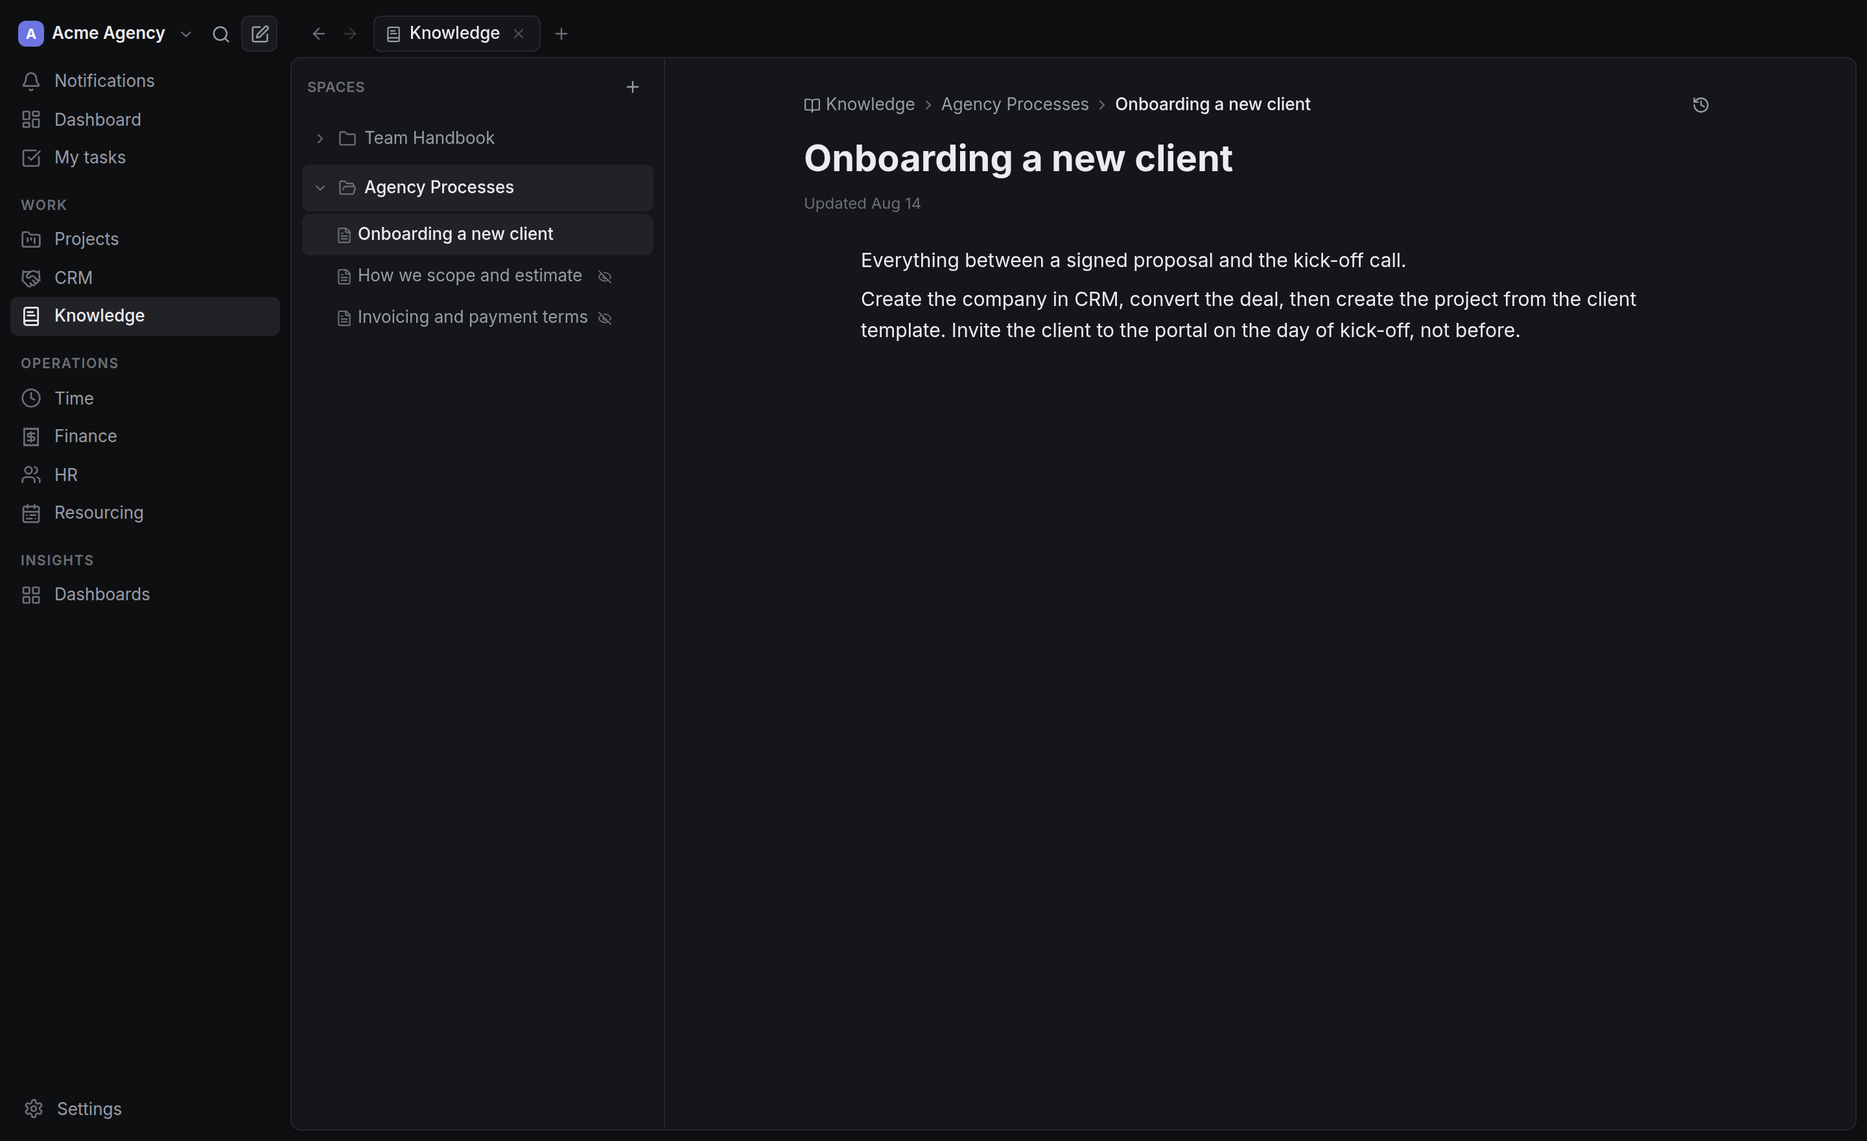
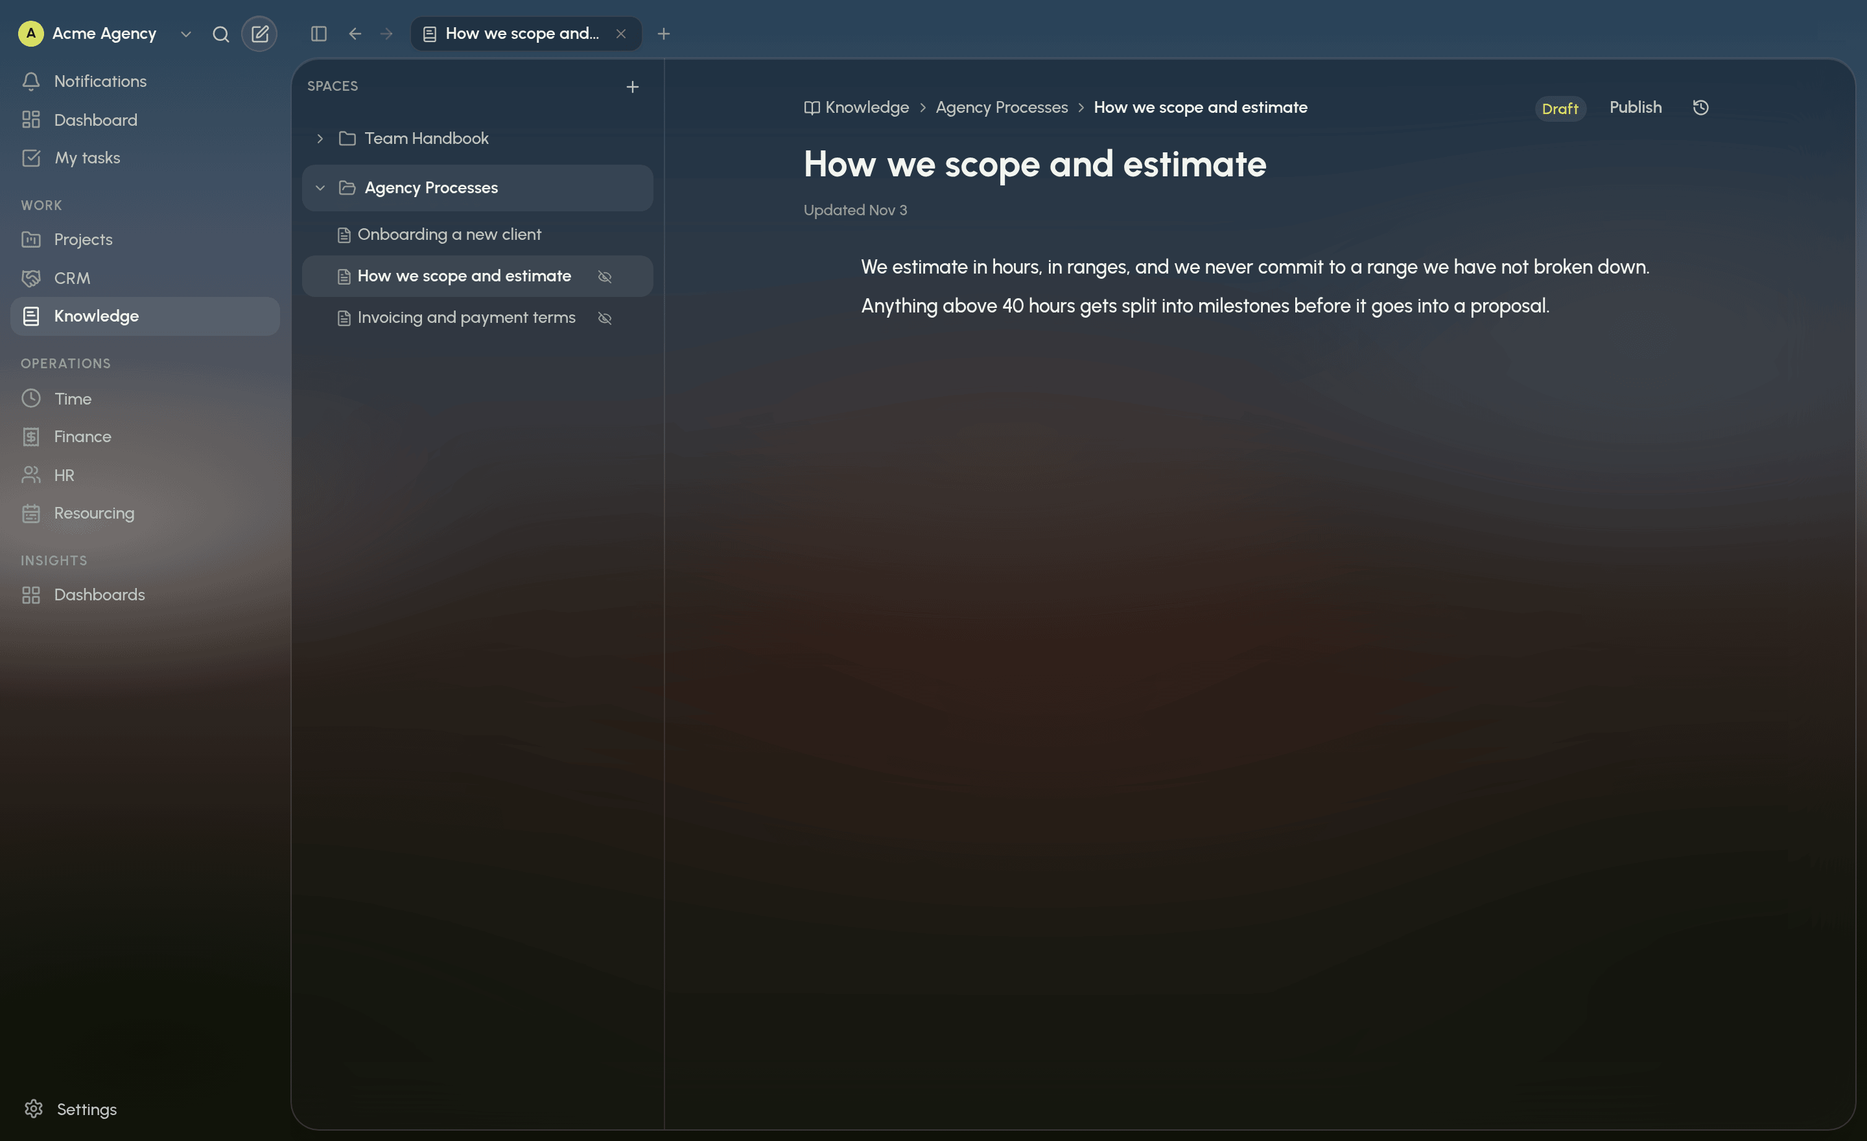
docs: catch the README, changelog and docs up with v1.41 and the Glass look
The screenshots showed the Classic look and a Cycles tab that is now Plan,
the README still sold agents on Claude only and one SMTP setting, and the
CHANGELOG stopped at v1.36.1 while five releases shipped after it.

- docs/images: every screenshot retaken from the demo seed on Glass Dark,
  the look a new installation starts on, plus project-plan.png
- README: the Plan tab, Codex and OpenAI-compatible gateways for agents,
  several mail senders, what MCP can now do, desktop sign-ins through the
  browser and swipe navigation, Glass and Classic; pin example at 1.41.0
- CHANGELOG: v1.36.2 to v1.41.0
- docs/features.md: the missing v1.36.2 to v1.40.0 entries
- docs/desktop.md: startExternalFlow, swipe navigation, the macOS menu

diff --git a/CHANGELOG.md b/CHANGELOG.md
@@ -3,6 +3,120 @@
 Release notes for each version live in [`docs/releases`](docs/releases) and are
 published to [GitHub Releases](https://github.com/romirom11/ordi/releases).
 
+## v1.41.0
+
+- **Bitbucket Cloud**: Settings → Integrations → Bitbucket connects a
+  workspace with an Atlassian API token (plus the account email) or a
+  workspace, project or repository access token, checked by listing the
+  workspace's repositories before anything is stored. Binding a repository
+  to a project registers a signed webhook on it – nothing to copy by hand –
+  and **Sync** refreshes the repository list and the bound webhooks.
+  Branches, commits and pull requests that mention a task key link to the
+  task (the key is also read from the pull request's source branch), a pull
+  request's state drives the automation rules, and AI agents clone, push
+  and open the pull request on Bitbucket too. Bitbucket Server / Data
+  Center is not covered.
+- **Desktop sign-ins open in the browser**: installing the GitHub App,
+  GitHub OAuth, Slack and MCP connector authorization took over the app
+  window and stranded it on the web build. They now go to the system
+  browser, the app says "Continue in your browser" and refetches when it
+  regains focus. MCP connector sign-in completes from the desktop app for
+  the first time (its callback no longer needs a session cookie; a consent
+  started before the upgrade has to be started again).
+- **Two-finger swipe** goes back and forward in the desktop app on macOS
+  (with the native slide) and Linux.
+- **New installations start on Glass Dark**; a stored theme or style wins.
+  The sidebar and side panels slide instead of popping in; the GitHub
+  button reads **Choose repositories** once the app is installed; intake
+  settings show only what applies.
+- **A page stuck on "Saving…"**: a save refused after realtime had already
+  brought someone else's version waited forever and **Keep my version** did
+  nothing. The conflict now shows at once and Keep my version saves.
+
+No migrations.
+
+## v1.40.0
+
+- **Plan: milestones and cycles on one tab** (the Cycles tab is renamed):
+  milestones with progress and target dates, **Pull open tasks into the
+  cycle** for a milestone's unfinished work, the current cycle with a
+  breakdown by milestone, upcoming cycles below. Cycles are **opt-in per
+  project**; projects that already have them keep them. Tasks gain a
+  **Cycle** field, the list filters and groups by cycle, and the bulk bar
+  sets a milestone or cycle on many tasks at once.
+- **Project page**: settings open in a side panel from the gear, the
+  overview leads with the description and drops empty blocks, the Intake
+  tab appears only when intake is on or something waits in it, and the
+  projects list flags *At risk* and *Off track* projects.
+- **Several mail senders**: Settings → Email (moved out of Integrations)
+  lists senders, each with its From, optional Reply-To and SMTP login, one
+  for system mail and one default for invoices and quotes. The invoice Send
+  dialog has a **From** picker and reminders follow up from the address the
+  invoice went out from. The old SMTP setting becomes the sender "Default";
+  `SMTP_URL` shows as a read-only sender. Migration
+  `0042_email_delivery_sender`.
+- **Integrations as a list** – GitHub, Slack, webhooks with their state –
+  each one's setup in a side panel.
+- **Glass polish**: Urbanist Cyrillic, so mixed Ukrainian and English reads
+  as one font; task view controls float bottom-right; one fill for every
+  selected thing; settings sections in cards.
+- **Desktop fixes**: the invoice PDF and CSV exports download with the
+  app's own sign-in instead of opening "Not authenticated".
+- **MCP**: `get_project_schema` lists milestones and whether the project
+  uses cycles; task tools take `milestone`; new `create_milestone`,
+  `update_milestone`, `create_cycle`, `complete_cycle`; `send_invoice` uses
+  the invoice sender.
+
+## v1.39.0
+
+- **Glass**: a second look for the whole app (Workspace menu → **Style**),
+  in light and dark – frosted panes over a soft landscape, warm graphite
+  neutrals, a lime accent, pill-shaped controls and the Urbanist typeface.
+  Classic stays available; the choice is stored per browser.
+- **Credit notes count toward every balance** – the public invoice page,
+  the PDF ("Credited" row), the invoice page and company receivables.
+- **Month-end schedules stay in their month**: a schedule due on the 31st
+  lands on the last day of a shorter month instead of rolling over.
+- **Security**: API tokens can no longer list, create or revoke tokens
+  (token management, 2FA setup and desktop/OAuth approvals need a signed-in
+  session); turning 2FA off needs a code; read-only tokens are refused on
+  every mutating request; cost rates need the "read costs" permission;
+  dangerous OAuth redirect URI schemes are refused; MCP `upload_attachment`
+  fetches public URLs only, with a size cap and a 20 s timeout.
+- Keyboard and overlay behaviour, draft recovery in editors, responsive
+  layouts, realtime updates of task and KB edits in open tabs, and
+  workspace actions in the macOS menu bar.
+
+No migrations.
+
+## v1.38.0
+
+- **MCP files subtasks and plans cycles**: `create_task`, `update_task` and
+  `upsert_task` take `parentId` and `cycle` (id or name);
+  `get_project_schema` lists cycles; `list_tasks` filters by both.
+- **Status from the row on My tasks**: the circle opens the same status
+  picker as the project list.
+- A task's parent and cycle must belong to its own project, and a task can
+  no longer become its own ancestor; the depth limit counts the subtasks
+  that move with it.
+
+No migrations.
+
+## v1.37.0
+
+- **Codex runtime for agents**: an agent runs on **Claude Code** or
+  **Codex**, chosen per agent. A Codex credential is an OpenAI API key –
+  optionally with a **Base URL** for any OpenAI-compatible gateway
+  (LiteLLM, OpenRouter, Ollama, Azure OpenAI, a corporate proxy) – or a
+  ChatGPT subscription (`~/.codex/auth.json`). `OPENAI_API_KEY` joins
+  `ANTHROPIC_API_KEY` as an env fallback. Migration `0041_codex_base_url`.
+
+## v1.36.2
+
+- **Images in a task from MCP**: `upload_attachment` stores a file from
+  base64 or a URL and returns a `src` to interleave as `![alt](src)` in a
+  task's text, or attaches it to a record's Files.
+
 ## v1.36.1
 
 - **No more three rows saying 187.00**: an untaxed, unpaid invoice printed

diff --git a/README.md b/README.md
@@ -76,10 +76,12 @@ delivery and finance system that follows the sale.
 
 ### Projects and tasks
 Deliberately modelled on Linear: keyboard-first, fast, opinionated. Board, list,
-calendar, timeline and spreadsheet views; cycles with burn-up and a burndown,
-milestones, project updates with health; sub-tasks, dependencies, labels, custom
-fields (workspace-wide or per project); saved views, filters and display options;
-project templates; files with in-app previews on every task.
+calendar, timeline and spreadsheet views; a **Plan** tab with milestones (progress,
+target dates, "pull open tasks into the cycle") and opt-in cycles with burn-up and a
+burndown; project updates with health; sub-tasks, dependencies, labels, custom
+fields (workspace-wide or per project); saved views, filters, grouping and bulk
+edits by milestone or cycle; project templates; files with in-app previews on every
+task.
 
 </td><td width="50%">
 
@@ -104,7 +106,7 @@ rate. A won deal turns into a project without retyping anything.
 
 ### Finance
 Quotes and invoices with tax, discounts, branded localized PDFs and public payment
-pages. Payments, credit notes, recurring invoices and expenses; receivables aging
+pages, sent from the mail sender you pick. Payments, credit notes, recurring invoices and expenses; receivables aging
 and overdue reminders; invoice straight from unbilled time; project profitability
 out of the box. Underneath sits a **double-entry ledger** – every invoice, payment
 and expense posts balanced entries, so the books actually balance.
@@ -151,18 +153,29 @@ and expense posts balanced entries, so the books actually balance.
 - **Permissions that hold** – enforced on every request, the UI only hides things;
   audit diffs redact sensitive fields, writes use optimistic locking.
 - **Built-in MCP server** – point Claude or Cursor at your workspace over OAuth with
-  PKCE; the agent gets exactly the permissions of its API token, nothing more.
+  PKCE; the agent gets exactly the permissions of its API token, nothing more. It can
+  file subtasks, plan milestones and cycles, and put screenshots into a task.
 - **AI agent employees** – add an agent as a team member, assign it a task like you
   would a person, and it works through the project's repository and opens a pull
-  request for a human to review. Runs on your own Claude subscription or API key,
-  with MCP connectors granted per agent.
+  request for a human to review. Runs on **Claude Code** or **Codex**, per agent, with
+  your own Claude subscription or API key, an OpenAI key (or any OpenAI-compatible
+  gateway – LiteLLM, OpenRouter, Ollama, Azure) or a ChatGPT plan; MCP connectors
+  are granted per agent.
 - **Desktop app** – macOS, Windows and Linux, with native notifications, a global
-  quick-add shortcut, signed auto-updates, and sign-in through your browser
-  instead of retyping credentials. Downloadable from inside the web app.
+  quick-add shortcut, signed auto-updates, two-finger swipe back and forward, and
+  sign-in through your browser instead of retyping credentials – connecting GitHub,
+  Slack or an MCP connector goes through the browser too. Downloadable from inside
+  the web app.
+- **Mail from the right address** – several senders, each with its own From,
+  Reply-To and SMTP login: one for invites and notifications, one for invoices and
+  quotes, and a From picker when you send.
 - **Setup wizard, invites and password reset** – the first run creates the
   workspace, owner account, currency and modules on one screen; members arrive by
   invite.
-- **English and Ukrainian**, dark and light.
+- **Two looks** – **Glass**, frosted panes over a soft backdrop with a lime accent
+  (new installations start on Glass Dark), or **Classic**, solid and quiet; each in
+  dark and light.
+- **English and Ukrainian** throughout, including the invoice PDFs.
 
 ## Quick start
 
@@ -179,7 +192,7 @@ docker compose up
 Open <http://localhost:8080> and the setup wizard will create your workspace and
 owner account.
 
-`docker compose pull` moves you to the newest release; `ORDI_VERSION=1.36.1`
+`docker compose pull` moves you to the newest release; `ORDI_VERSION=1.41.0`
 in a `.env` next to the compose file pins one (and is how you roll back). The
 image is `linux/amd64`.
 

diff --git a/docs/features.md b/docs/features.md
@@ -33,6 +33,58 @@
   пушать і відкривають PR ([PR #130](https://github.com/romirom11/ordi/pull/130)).
 - Сторінка KB / опис задачі більше не зависає на «Saving…», коли Save
   відхилено після того, як realtime уже приніс чужу версію.
+- Десктоп: вхід у GitHub App, GitHub OAuth, Slack і MCP-конектори
+  відкривається в системному браузері (`startExternalFlow`), а не у вікні
+  застосунку; MCP-конектор нарешті авторизується з десктопу. Свайп двома
+  пальцями назад/вперед на macOS і Linux.
+- Нові інсталяції стартують на Glass Dark; сайдбар і бокові панелі
+  виїжджають, а не зʼявляються стрибком; налаштування Intake показують лише
+  те, що стосується.
+
+### v1.40.0
+
+- Вкладка «План» замість «Циклів»: етапи (milestones) з прогресом,
+  дедлайнами і «Затягнути відкриті задачі в цикл», поточний цикл з
+  розбивкою по етапах. Цикли вмикаються на проєкті окремо; у задачі є поле
+  «Цикл», список фільтрує і групує за ним, bulk-панель ставить етап чи цикл.
+- Сторінка проєкту: налаштування в боковій панелі, огляд починається з
+  опису без порожніх блоків, вкладка Intake лише коли intake увімкнено,
+  список проєктів позначає *At risk* / *Off track*.
+- Кілька відправників пошти (Settings → Email): свій From, Reply-To і
+  SMTP-логін; системний і для рахунків; вибір From при відправці рахунку
+  (міграція `0042_email_delivery_sender`).
+- Інтеграції списком, налаштування кожної — у боковій панелі.
+- Glass: Urbanist Cyrillic, плаваючі контролі вигляду задач, одна заливка
+  для вибраного.
+- MCP: `create_milestone`, `update_milestone`, `create_cycle`,
+  `complete_cycle`; `milestone` у задачних тулах.
+
+### v1.39.0
+
+- Другий стиль інтерфейсу — Glass (меню воркспейсу → Style), у світлій і
+  темній темах; Classic лишається.
+- Кредит-ноти враховуються в балансі рахунку всюди; місячні розклади на 31-ше
+  лишаються у своєму місяці.
+- Безпека: API-токени не керують токенами, read-only токени не пишуть,
+  вимкнення 2FA лише з кодом, cost rates лише з правом на витрати, MCP
+  `upload_attachment` тягне лише публічні URL.
+
+### v1.38.0
+
+- MCP створює підзадачі й кладе задачі в цикли (`parentId`, `cycle`);
+  `get_project_schema` віддає цикли.
+- Статус задачі змінюється прямо з рядка в «Моїх задачах».
+
+### v1.37.0
+
+- Рантайм Codex для AI-агентів поруч із Claude Code: OpenAI API-ключ (з
+  довільним OpenAI-сумісним Base URL) або підписка ChatGPT (міграція
+  `0041_codex_base_url`).
+
+### v1.36.2
+
+- MCP `upload_attachment`: картинки всередині тексту задачі або файл у
+  розділі Files запису.
 
 ### v1.36.1
 

diff --git a/docs/desktop.md b/docs/desktop.md
@@ -66,9 +66,12 @@ Windows/Linux додайте `http://tauri.localhost` в `CORS_ORIGINS` інст
 | Зовнішні посилання | `lib/desktop.ts` → `installExternalLinkHandler()` | делегований клік на `document` → `plugin:opener\|open_url` у системному браузері; вебв'ю ігнорує `target="_blank"`, тому без цього обробника посилання просто мертві |
 | Автозапуск | плагін `autostart` (Rust) | ініціалізований; вмикання – стандартний viклик плагіна |
 | Автооновлення | плагін `updater` + CI | підписані артефакти з релізів; endpoint і pubkey – у `tauri.conf.json → plugins.updater` |
+| Вхід у сторонні сервіси (GitHub App, GitHub OAuth, Slack, MCP-конектори) | `lib/desktop.ts` → `startExternalFlow()` | у вебі вкладка сама йде до провайдера; у десктопі флоу відкривається в системному браузері, вікно показує «Continue in your browser» і перезапитує змінене, коли повертається фокус (15 хв). Колбеки провайдерів публічні й автентифікуються підписаним `state`, бо redirect не несе bearer-токен десктопу. Маніфест GitHub App браузер отримує зі сторінки `GET /integrations/github-app/manifest/launch`, яка сама постить форму |
+| Свайп назад/вперед двома пальцями | Rust `main.rs` → `enable_swipe_navigation()` | wry вимикає жест, а в Tauri немає ключа конфігу, тож при старті вмикається напряму: macOS – `WKWebView.allowsBackForwardNavigationGestures` (з нативною анімацією), Linux – WebKitGTK `enable-back-forward-navigation-gestures`. Windows не чіпаємо: у WebView2 це лише для тачскрінів |
+| Меню «Workspace» (macOS) | Rust `main.rs` | New Task `⌘N`, Search `⌘K`, Toggle Sidebar `⌘\`, Settings… `⌘,`, Keyboard Shortcuts `⌘/` – пункти емітять `ordi://menu` з id команди, далі все робить веб-шар |
 
 Rust-код (`apps/desktop/src-tauri/src/main.rs`) свідомо мінімальний: ініт
-плагінів + реєстрація хоткея з обробником. Уся логіка – у веб-шарі, щоб
+плагінів, реєстрація хоткея з обробником, меню macOS і ввімкнення свайпу. Уся логіка – у веб-шарі, щоб
 дифи не потребували перекомпіляції нативної частини.
 
 ## 5. Іконки
